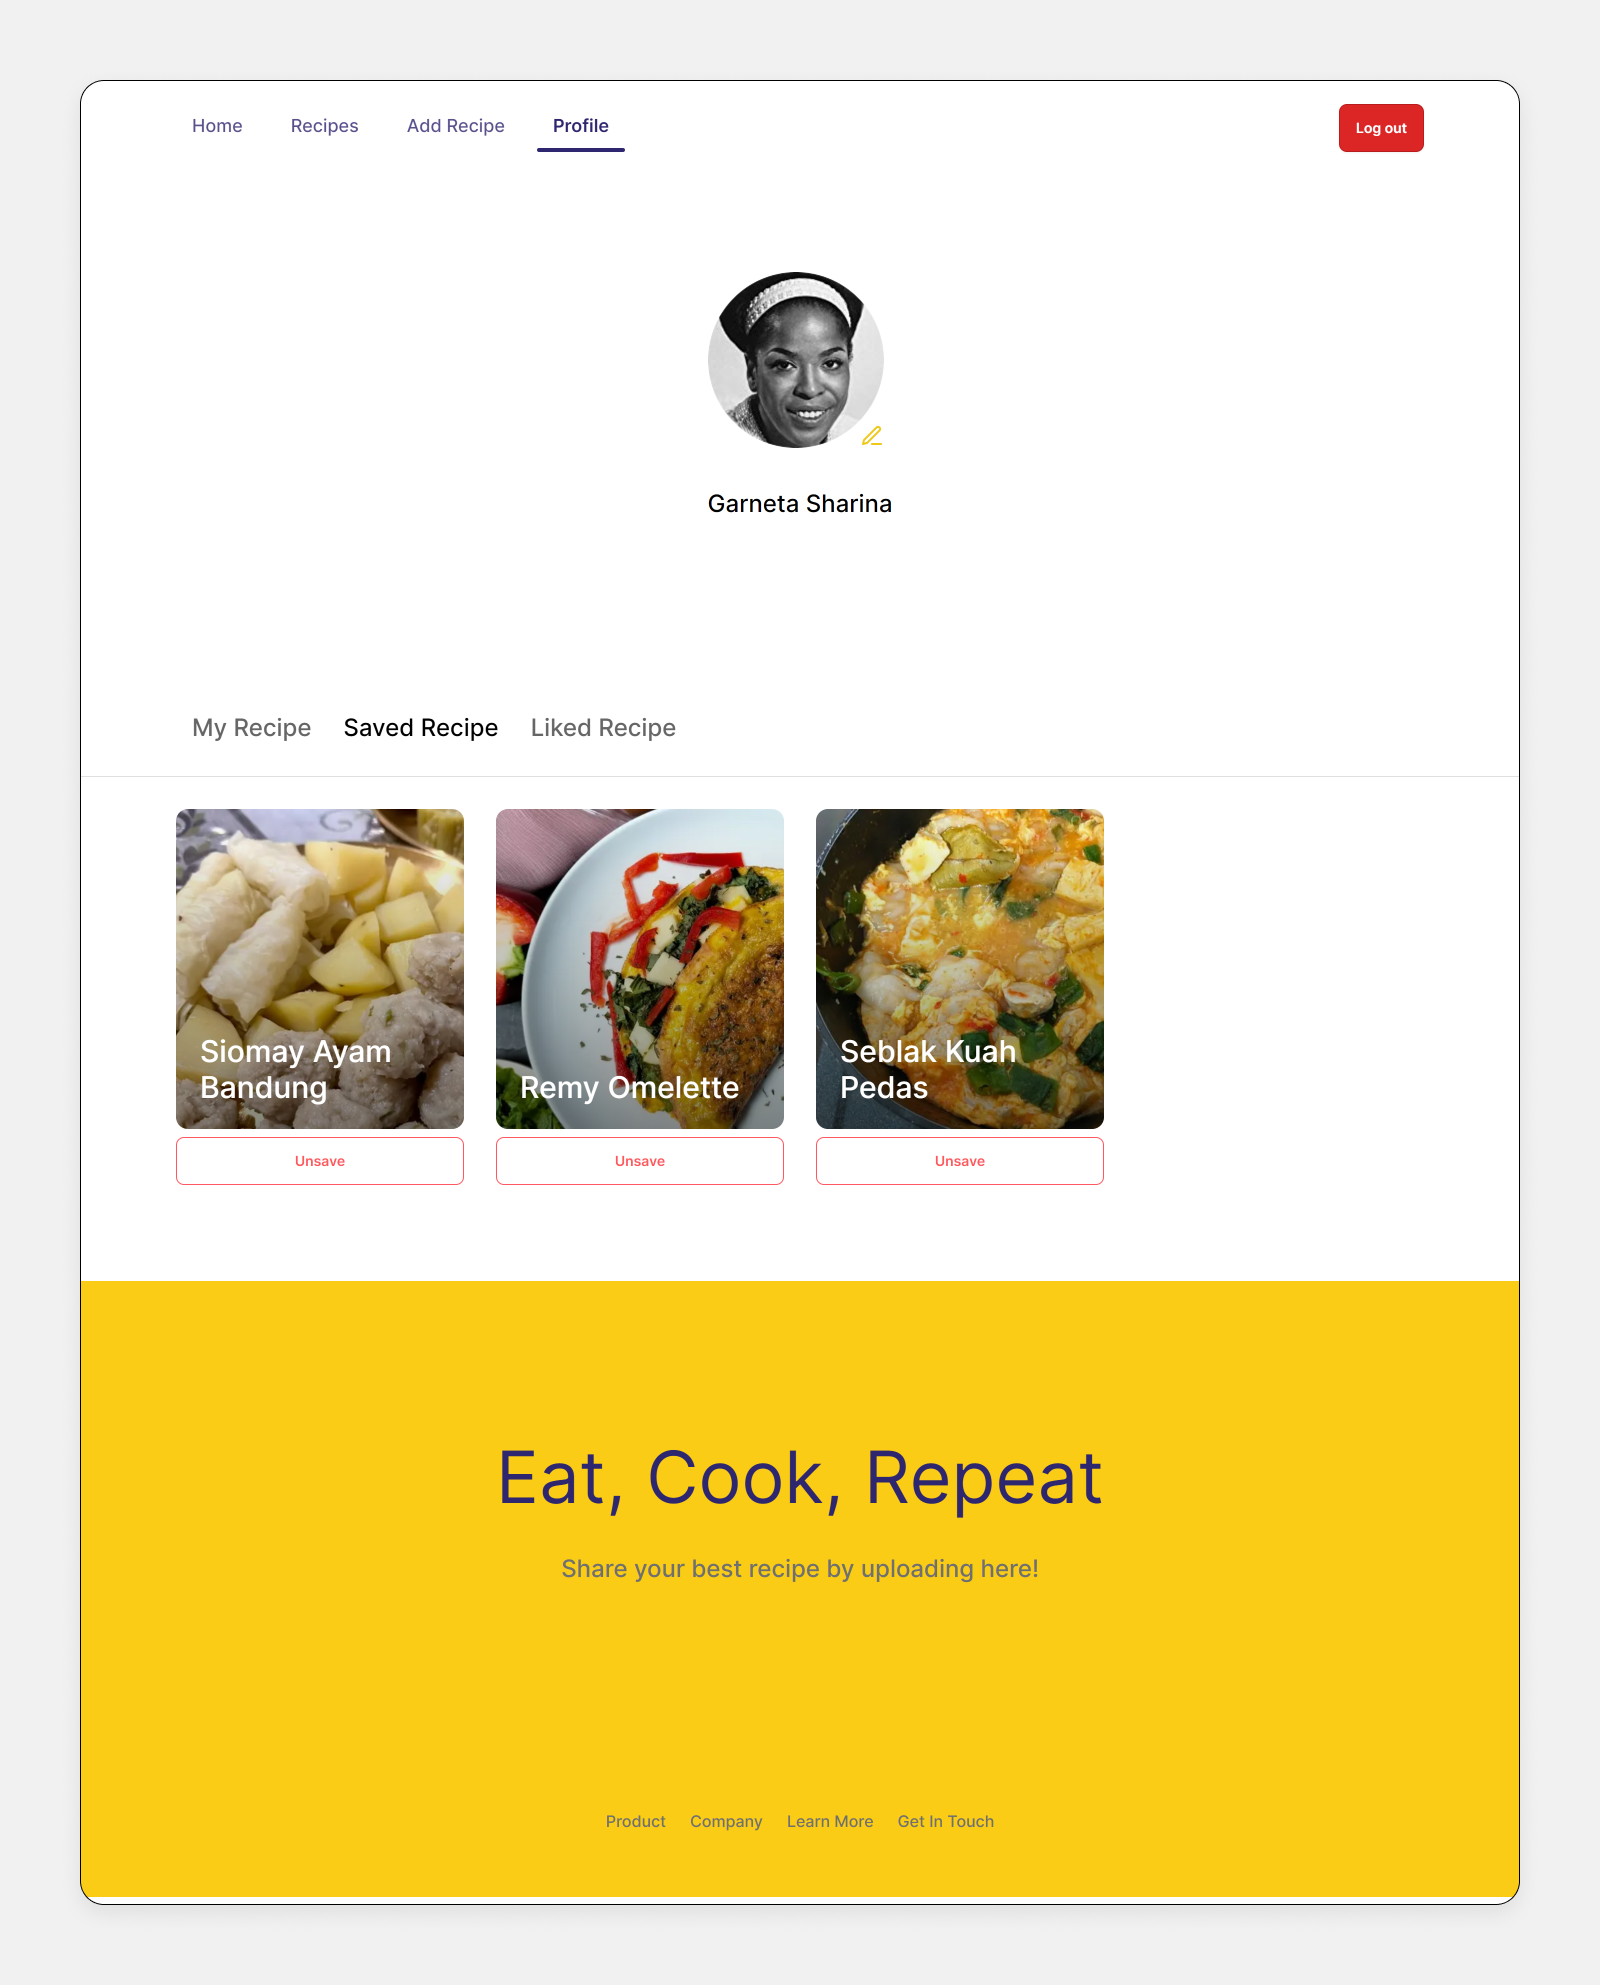
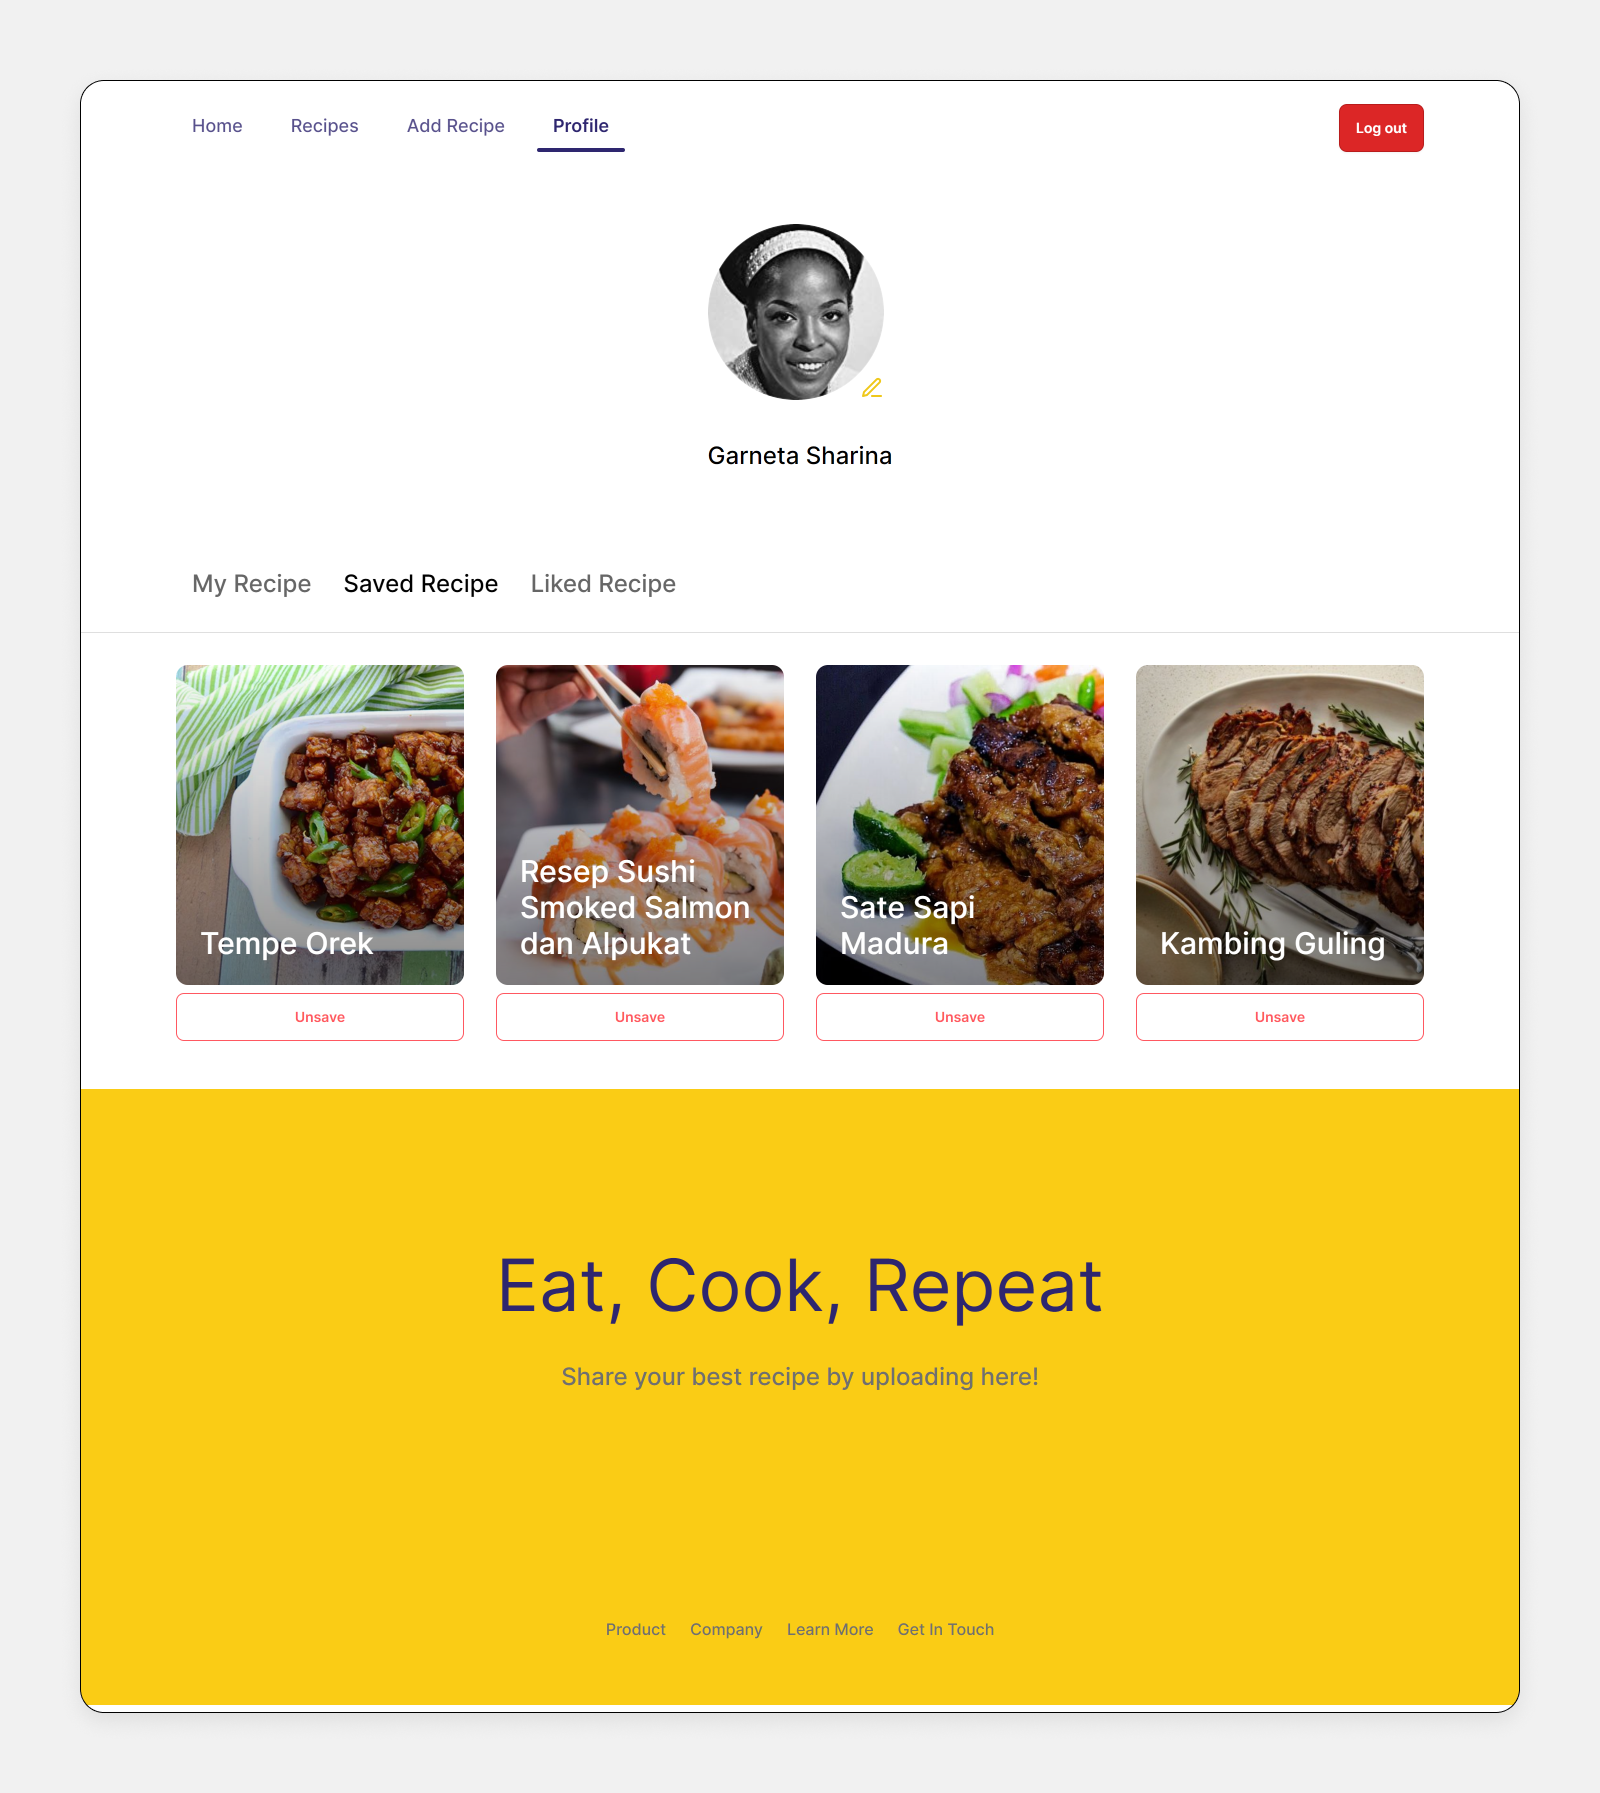
Update README

diff --git a/app/(main)/profile/page.js b/app/(main)/profile/page.js
@@ -320,7 +320,7 @@ const MyProfile = () => {
 
   return (
     <div>
-      <div className=' flex flex-col items-center justify-center p-24 pt-48 max-lg:p-4 max-lg:pt-32'>
+      <div className=' flex flex-col items-center justify-center p-12 pt-36 max-lg:p-4 max-lg:pt-32'>
 
         <div className='flex flex-col gap-10'>
 
@@ -346,7 +346,7 @@ const MyProfile = () => {
 
       {/* <Tabs /> */}
 
-      <div className='flex flex-col gap-8 py-24 max-lg:py-8'>
+      <div className='flex flex-col gap-8 py-12 max-lg:py-8'>
         <div role="tablist" className="tabs w-fit px-24 max-lg:px-4">
           <a
             role="tab"
